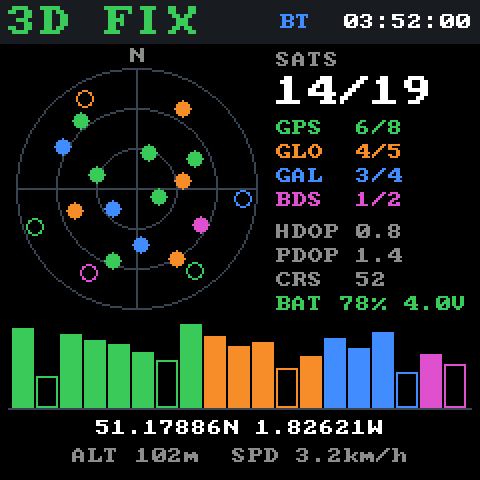
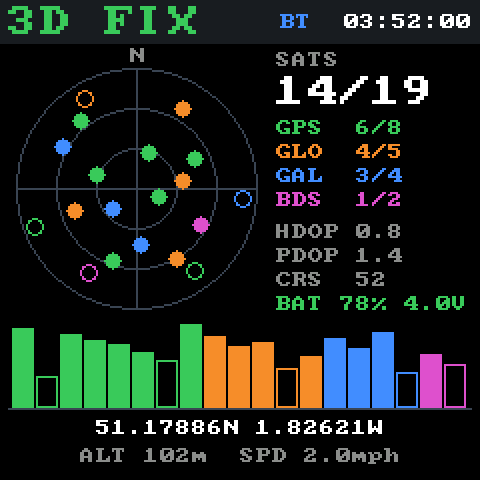
Show speeds in mph by default, with km/h as an option

Changed region(s): [[0.4688, 0.9062, 0.8438, 0.9688], [0.2812, 0.9062, 0.4375, 0.9688], [0.125, 0.9062, 0.25, 0.9688]]

diff --git a/web/simulator.html b/web/simulator.html
@@ -126,13 +126,17 @@
   <section>
     <h2>Playback</h2>
     <div class="row">
-      <label>Speed <input id="speed" type="number" min="0.5" step="0.5" value="5"> km/h</label>
+      <button id="units-mph">mph</button>
+      <button id="units-kmh">km/h</button>
     </div>
     <div class="row">
-      <button data-speed="5">Walk</button>
-      <button data-speed="15">Cycle</button>
-      <button data-speed="50">Drive</button>
-      <button data-speed="110">Motorway</button>
+      <label>Speed <input id="speed" type="number" min="0.5" step="0.5" value="3"> <span id="speed-unit">mph</span></label>
+    </div>
+    <div class="row">
+      <button data-preset="0">Walk</button>
+      <button data-preset="1">Cycle</button>
+      <button data-preset="2">Drive</button>
+      <button data-preset="3">Motorway</button>
     </div>
     <div class="row">
       <button id="play" class="primary" disabled>Play</button>
@@ -162,13 +166,20 @@ const STORAGE_KEY = "picogps-path";
 const BATTERY_POLL_MS = 10000;
 const SPEED_WINDOW_S = 5;
 const SEGMENT_GAP_S = 60;
-const MOVING_KMH = 2;
-const JUMP_KMH = 500;
+const MOVING_MPS = 0.45;
+const JUMP_MPS = 134;
+const MPS_TO_KNOTS = 1.943844;
+const MPS_TO_KMH = 3.6;
+const UNITS_KEY = "picogps-units";
+const SPEED_UNITS = {
+  mph: { label: "mph", perMps: 2.236936, presets: [3, 10, 30, 70], bands: [0, 20, 40, 60, 80] },
+  kmh: { label: "km/h", perMps: 3.6, presets: [5, 15, 50, 110], bands: [0, 30, 60, 90, 120] }
+};
+const SPEED_BAND_COLOURS = ["#2563eb", "#16a34a", "#eab308", "#f97316", "#dc2626"];
 const FEET_TO_METRES = 0.3048;
 const OZI_NO_ALTITUDE = -777;
 const DELPHI_EPOCH_MS = Date.UTC(1899, 11, 30);
 const DAY_MS = 86400000;
-const SPEED_COLOURS = [[0, "#2563eb"], [30, "#16a34a"], [60, "#eab308"], [90, "#f97316"], [120, "#dc2626"]];
 
 const map = L.map("map").setView([52.205, 0.119], 13);
 L.tileLayer("https://tile.openstreetmap.org/{z}/{x}/{y}.png", {
@@ -199,6 +210,8 @@ let lastCourse = 0;
 let timer = null;
 let batteryTimer = null;
 let trackPoints = [];
+let units = SPEED_UNITS.mph;
+let lastShown = null;
 
 function toRadians(degrees) { return degrees * Math.PI / 180; }
 function toDegrees(radians) { return radians * 180 / Math.PI; }
@@ -256,20 +269,24 @@ function formatCoordinate(value, degreeDigits, positive, negative) {
   return `${String(degrees).padStart(degreeDigits, "0")}${minutes.toFixed(4).padStart(7, "0")},${hemisphere}`;
 }
 
-function nmeaSentences(position, speedKmh, course) {
+function formatSpeed(metresPerSecond, digits) {
+  return `${(metresPerSecond * units.perMps).toFixed(digits)} ${units.label}`;
+}
+
+function nmeaSentences(position, speedMps, course) {
   const now = new Date();
   const pad = value => String(value).padStart(2, "0");
   const time = `${pad(now.getUTCHours())}${pad(now.getUTCMinutes())}${pad(now.getUTCSeconds())}.00`;
   const date = `${pad(now.getUTCDate())}${pad(now.getUTCMonth() + 1)}${pad(now.getUTCFullYear() % 100)}`;
   const latitude = formatCoordinate(position.lat, 2, "N", "S");
   const longitude = formatCoordinate(position.lng, 3, "E", "W");
-  const knots = (speedKmh / 1.852).toFixed(2);
+  const knots = (speedMps * MPS_TO_KNOTS).toFixed(2);
   const heading = course.toFixed(2);
   return [
     sentence(`GPGGA,${time},${latitude},${longitude},1,08,1.0,10.0,M,47.0,M,,`),
     sentence("GPGSA,A,3,02,05,08,10,13,15,18,23,,,,,1.8,1.0,1.5"),
     sentence(`GPRMC,${time},A,${latitude},${longitude},${knots},${heading},${date},,,A`),
-    sentence(`GPVTG,${heading},T,,M,${knots},N,${speedKmh.toFixed(2)},K,A`)
+    sentence(`GPVTG,${heading},T,,M,${knots},N,${(speedMps * MPS_TO_KMH).toFixed(2)},K,A`)
   ].join("");
 }
 
@@ -393,8 +410,8 @@ async function setSimulating(on) {
   await send(sentence(`PPNM,SIM,${on ? 1 : 0}`));
 }
 
-function currentSpeed() {
-  return Math.max(0.5, Number(elements.speed.value) || 5);
+function currentSpeedMps() {
+  return Math.max(0.5, Number(elements.speed.value) || units.presets[0]) / units.perMps;
 }
 
 function updatePathInfo() {
@@ -411,9 +428,10 @@ function updatePlayButtons() {
   elements.stop.disabled = !playing && travelled === 0;
 }
 
-function showPosition(position, speedKmh, course) {
+function showPosition(position, speedMps, course) {
+  lastShown = { position, speedMps, course };
   simMarker.setLatLng(position).addTo(map);
-  elements.position.textContent = `${position.lat.toFixed(6)}, ${position.lng.toFixed(6)}\n${speedKmh.toFixed(1)} km/h, ${course.toFixed(0)}°`;
+  elements.position.textContent = `${position.lat.toFixed(6)}, ${position.lng.toFixed(6)}\n${formatSpeed(speedMps, 1)}, ${course.toFixed(0)}°`;
 }
 
 async function tick() {
@@ -422,12 +440,12 @@ async function tick() {
   lastTick = now;
 
   let position = fixedPosition;
-  let speedKmh = 0;
+  let speedMps = 0;
   let course = lastCourse;
 
   if (playing) {
     const total = pathLength();
-    travelled += currentSpeed() / 3.6 * elapsed;
+    travelled += currentSpeedMps() * elapsed;
     if (travelled >= total) {
       if (elements.loop.checked) {
         travelled = travelled % total;
@@ -440,15 +458,15 @@ async function tick() {
     const point = pointAlongPath(travelled);
     position = point.position;
     course = point.course;
-    speedKmh = playing ? currentSpeed() : 0;
+    speedMps = playing ? currentSpeedMps() : 0;
     fixedPosition = position;
     elements.progress.textContent = `${(travelled / 1000).toFixed(2)} of ${(total / 1000).toFixed(2)} km`;
   }
 
   lastCourse = course;
   if (!position) return;
-  showPosition(position, speedKmh, course);
-  if (simulating) await send(nmeaSentences(position, speedKmh, course), true);
+  showPosition(position, speedMps, course);
+  if (simulating) await send(nmeaSentences(position, speedMps, course), true);
 }
 
 function startTimer() {
@@ -535,7 +553,7 @@ function isBreak(points, index) {
   if (current.newSegment || !previous.time || !current.time) return true;
   const seconds = (current.time - previous.time) / 1000;
   if (seconds > SEGMENT_GAP_S) return true;
-  return distance(previous, current) / Math.max(seconds, 1) * 3.6 > JUMP_KMH;
+  return distance(previous, current) / Math.max(seconds, 1) > JUMP_MPS;
 }
 
 function smoothedSpeed(points, index) {
@@ -544,23 +562,25 @@ function smoothedSpeed(points, index) {
     covered += distance(points[end - 1], points[end]);
     const seconds = (points[end].time - points[index].time) / 1000;
     if (seconds >= SPEED_WINDOW_S || end === points.length - 1 || isBreak(points, end + 1)) {
-      return seconds > 0 ? covered / seconds * 3.6 : 0;
+      return seconds > 0 ? covered / seconds : 0;
     }
   }
   return 0;
 }
 
-function speedColour(kmh) {
-  for (let i = 1; i < SPEED_COLOURS.length; i++) {
-    const [upperSpeed, upperColour] = SPEED_COLOURS[i];
-    const [lowerSpeed, lowerColour] = SPEED_COLOURS[i - 1];
-    if (kmh <= upperSpeed) {
-      const fraction = (kmh - lowerSpeed) / (upperSpeed - lowerSpeed);
-      const channel = offset => Math.round(parseInt(lowerColour.slice(offset, offset + 2), 16) * (1 - fraction) + parseInt(upperColour.slice(offset, offset + 2), 16) * fraction);
+function speedColour(metresPerSecond) {
+  const speed = metresPerSecond * units.perMps;
+  const bands = units.bands;
+  for (let i = 1; i < bands.length; i++) {
+    if (speed <= bands[i]) {
+      const fraction = (speed - bands[i - 1]) / (bands[i] - bands[i - 1]);
+      const lower = SPEED_BAND_COLOURS[i - 1];
+      const upper = SPEED_BAND_COLOURS[i];
+      const channel = offset => Math.round(parseInt(lower.slice(offset, offset + 2), 16) * (1 - fraction) + parseInt(upper.slice(offset, offset + 2), 16) * fraction);
       return `rgb(${channel(1)}, ${channel(3)}, ${channel(5)})`;
     }
   }
-  return SPEED_COLOURS[SPEED_COLOURS.length - 1][1];
+  return SPEED_BAND_COLOURS[SPEED_BAND_COLOURS.length - 1];
 }
 
 function formatTime(date) {
@@ -586,7 +606,7 @@ function trackStatistics(points) {
     const seconds = (points[i].time - points[i - 1].time) / 1000;
     recordedDistance += metres;
     recordedSeconds += seconds;
-    if (seconds > 0 && metres / seconds * 3.6 > MOVING_KMH) {
+    if (seconds > 0 && metres / seconds > MOVING_MPS) {
       movingDistance += metres;
       movingSeconds += seconds;
     }
@@ -599,8 +619,8 @@ function trackStatistics(points) {
     distance: recordedDistance,
     recordedSeconds,
     movingSeconds,
-    averageSpeed: recordedSeconds ? recordedDistance / recordedSeconds * 3.6 : 0,
-    movingAverageSpeed: movingSeconds ? movingDistance / movingSeconds * 3.6 : 0,
+    averageSpeed: recordedSeconds ? recordedDistance / recordedSeconds : 0,
+    movingAverageSpeed: movingSeconds ? movingDistance / movingSeconds : 0,
     maximumSpeed,
     lowest: altitudes.length ? Math.min(...altitudes) : null,
     highest: altitudes.length ? Math.max(...altitudes) : null,
@@ -617,9 +637,9 @@ function showTrackStatistics(stats) {
     ["Distance", `${(stats.distance / 1000).toFixed(2)} km`],
     ["Recorded", formatDuration(stats.recordedSeconds)],
     ["Moving", formatDuration(stats.movingSeconds)],
-    ["Average", `${stats.averageSpeed.toFixed(1)} km/h`],
-    ["Moving avg", `${stats.movingAverageSpeed.toFixed(1)} km/h`],
-    ["Max", `${stats.maximumSpeed.toFixed(1)} km/h`],
+    ["Average", formatSpeed(stats.averageSpeed, 1)],
+    ["Moving avg", formatSpeed(stats.movingAverageSpeed, 1)],
+    ["Max", formatSpeed(stats.maximumSpeed, 1)],
     ["Altitude", stats.lowest === null ? "-" : `${stats.lowest.toFixed(0)}-${stats.highest.toFixed(0)} m`]
   ];
   elements["track-stats"].replaceChildren(...rows.flatMap(([label, value]) => {
@@ -629,11 +649,11 @@ function showTrackStatistics(stats) {
     content.textContent = value;
     return [name, content];
   }));
-  elements["track-legend"].replaceChildren(...SPEED_COLOURS.map(([speed, colour]) => {
+  elements["track-legend"].replaceChildren(...units.bands.map((speed, index) => {
     const item = document.createElement("span");
     const swatch = document.createElement("i");
-    swatch.style.background = colour;
-    item.append(swatch, `${speed}${speed === SPEED_COLOURS[SPEED_COLOURS.length - 1][0] ? "+" : ""} km/h`);
+    swatch.style.background = SPEED_BAND_COLOURS[index];
+    item.append(swatch, `${speed}${index === units.bands.length - 1 ? "+" : ""} ${units.label}`);
     return item;
   }));
   elements["track-section"].hidden = false;
@@ -643,10 +663,10 @@ function drawTrack(points) {
   speedLayer.clearLayers();
   for (let i = 1; i < points.length; i++) {
     if (isBreak(points, i)) continue;
-    const kmh = smoothedSpeed(points, i - 1);
+    const speed = smoothedSpeed(points, i - 1);
     const altitude = points[i - 1].altitude === null ? "" : `, ${points[i - 1].altitude.toFixed(0)} m`;
-    L.polyline([points[i - 1], points[i]], { color: speedColour(kmh), weight: 5, opacity: 0.9 })
-      .bindTooltip(`${formatTime(points[i - 1].time)}, ${kmh.toFixed(0)} km/h${altitude}`, { sticky: true })
+    L.polyline([points[i - 1], points[i]], { color: speedColour(speed), weight: 5, opacity: 0.9 })
+      .bindTooltip(`${formatTime(points[i - 1].time)}, ${formatSpeed(speed, 0)}${altitude}`, { sticky: true })
       .addTo(speedLayer);
   }
 }
@@ -656,6 +676,21 @@ function clearTrack() {
   speedLayer.clearLayers();
   pathLine.setStyle(PATH_STYLE);
   elements["track-section"].hidden = true;
+}
+
+function setUnits(key) {
+  const speed = currentSpeedMps();
+  units = SPEED_UNITS[key] || SPEED_UNITS.mph;
+  elements.speed.value = (speed * units.perMps).toFixed(1).replace(/\.0$/, "");
+  elements["speed-unit"].textContent = units.label;
+  elements["units-mph"].classList.toggle("active", units === SPEED_UNITS.mph);
+  elements["units-kmh"].classList.toggle("active", units === SPEED_UNITS.kmh);
+  try { localStorage.setItem(UNITS_KEY, key); } catch (error) {}
+  if (trackPoints.length) {
+    drawTrack(trackPoints);
+    showTrackStatistics(trackStatistics(trackPoints));
+  }
+  if (lastShown) showPosition(lastShown.position, lastShown.speedMps, lastShown.course);
 }
 
 function importTrack(name, text) {
@@ -687,8 +722,16 @@ elements.import.addEventListener("change", async () => {
 });
 elements.play.addEventListener("click", togglePlayback);
 elements.stop.addEventListener("click", stopPlayback);
-document.querySelectorAll("[data-speed]").forEach(button => button.addEventListener("click", () => { elements.speed.value = button.dataset.speed; }));
+document.querySelectorAll("[data-preset]").forEach(button => button.addEventListener("click", () => { elements.speed.value = units.presets[Number(button.dataset.preset)]; }));
+elements["units-mph"].addEventListener("click", () => setUnits("mph"));
+elements["units-kmh"].addEventListener("click", () => setUnits("kmh"));
 navigator.serial?.addEventListener("disconnect", event => { if (event.target === port) disconnect(); });
+
+let savedUnits = "mph";
+try { savedUnits = localStorage.getItem(UNITS_KEY) || "mph"; } catch (error) {}
+elements.speed.value = (SPEED_UNITS[savedUnits] || SPEED_UNITS.mph).presets[0];
+units = SPEED_UNITS[savedUnits] || SPEED_UNITS.mph;
+setUnits(savedUnits);
 
 try {
   const saved = JSON.parse(localStorage.getItem(STORAGE_KEY) || "[]");

diff --git a/src/gpsview.c b/src/gpsview.c
@@ -37,6 +37,14 @@
 #define SNR_FULL_SCALE 50
 #define LINE_HEIGHT 12
 
+#ifdef PICONMEA_SPEED_KMH
+#define SPEED_PER_KNOT 1.852f
+#define SPEED_UNIT "km/h"
+#else
+#define SPEED_PER_KNOT 1.150779f
+#define SPEED_UNIT "mph"
+#endif
+
 static const uint16_t constellation_colours[CONSTELLATION_COUNT] = {
     RGB565(60, 200, 90),
     RGB565(240, 140, 40),
@@ -302,7 +310,7 @@ static void draw_position(const nmea_state_t *state) {
     if (state->position_valid || state->fix_quality) {
         snprintf(line, sizeof(line), "%.5f%c %.5f%c", fabs(state->latitude), state->latitude < 0 ? 'S' : 'N', fabs(state->longitude), state->longitude < 0 ? 'W' : 'E');
         draw_text_centred(210, line, TEXT, 1);
-        snprintf(line, sizeof(line), "ALT %.0fm  SPD %.1fkm/h", (double)state->altitude, (double)state->speed_kmh);
+        snprintf(line, sizeof(line), "ALT %.0fm  SPD %.1f" SPEED_UNIT, (double)state->altitude, (double)(state->speed_knots * SPEED_PER_KNOT));
         draw_text_centred(224, line, DIM, 1);
     } else {
         draw_text_centred(216, "Waiting for fix", DIM, 1);

diff --git a/tools/render_mocks.py b/tools/render_mocks.py
@@ -30,7 +30,7 @@ SCENARIOS = {
         "latitude": 51.17886,
         "longitude": -1.82621,
         "altitude": 102.0,
-        "speed_kmh": 3.2,
+        "speed_mph": 2.0,
         "course": 52.0,
         "fix": True,
         "dop": (1.4, 0.8, 1.1),
@@ -96,7 +96,7 @@ def scenario_nmea(scenario):
     if scenario["fix"]:
         latitude = coordinate(scenario["latitude"], 2, "N", "S")
         longitude = coordinate(scenario["longitude"], 3, "E", "W")
-        knots = scenario["speed_kmh"] / 1.852
+        knots = scenario["speed_mph"] * 0.868976
         lines.append(sentence(f"GNGGA,{scenario['time']},{latitude},{longitude},1,{used:02d},{hdop:.1f},{scenario['altitude']:.1f},M,47.0,M,,"))
         lines.append(sentence(f"GNRMC,{scenario['time']},A,{latitude},{longitude},{knots:.2f},{scenario['course']:.2f},{scenario['date']},,,A"))
     else:

diff --git a/src/nmea.c b/src/nmea.c
@@ -5,7 +5,6 @@
 
 #define MAX_FIELDS 24
 #define SENTENCE_MAX 128
-#define KNOTS_TO_KMH 1.852f
 #define GLONASS_FIRST_PRN 65
 #define GLONASS_LAST_PRN 96
 
@@ -138,7 +137,7 @@ static void parse_rmc(char **fields, size_t count) {
     if (state.position_valid) {
         state.latitude = parse_coordinate(fields[3], fields[4]);
         state.longitude = parse_coordinate(fields[5], fields[6]);
-        state.speed_kmh = (float)atof(fields[7]) * KNOTS_TO_KMH;
+        state.speed_knots = (float)atof(fields[7]);
         state.course = (float)atof(fields[8]);
     }
 }

diff --git a/src/nmea.h b/src/nmea.h
@@ -33,7 +33,7 @@ typedef struct {
     double latitude;
     double longitude;
     float altitude;
-    float speed_kmh;
+    float speed_knots;
     float course;
     float pdop;
     float hdop;

diff --git a/README.md b/README.md
@@ -47,7 +47,7 @@ The Pico LiPo 2 XL W also reports battery voltage and an estimated charge level 
 
 ## Simulator
 
-`web/simulator.html` drives the device from a browser over WebSerial (Chrome or Edge), replacing the GPS with simulated positions on the Bluetooth and UART outputs. Click the map to set a fixed position, or draw a path and play it back at a chosen speed. Imported GPX or OziExplorer `.plt` tracks are shown coloured by speed, with distance, moving time, average and maximum speed, and can be played back too.
+`web/simulator.html` drives the device from a browser over WebSerial (Chrome or Edge), replacing the GPS with simulated positions on the Bluetooth and UART outputs. Click the map to set a fixed position, or draw a path and play it back at a chosen speed. Imported GPX or OziExplorer `.plt` tracks are shown coloured by speed, with distance, moving time, average and maximum speed, and can be played back too. Speeds are in mph by default, with a toggle for km/h.
 
 Serve it from localhost, as the map tiles need a referrer:
 
@@ -79,6 +79,8 @@ ninja -C build
 ```
 
 Use `-DPICO_BOARD=pimoroni_pico_lipo2xl_w` for the Pico LiPo 2 XL W.
+
+The display shows speed in mph. Add `-DPICONMEA_SPEED_UNITS=kmh` for km/h.
 
 Pins and peripherals for each board are in `src/boards/<PICO_BOARD>.h`. To support another board, add a header there.
 
